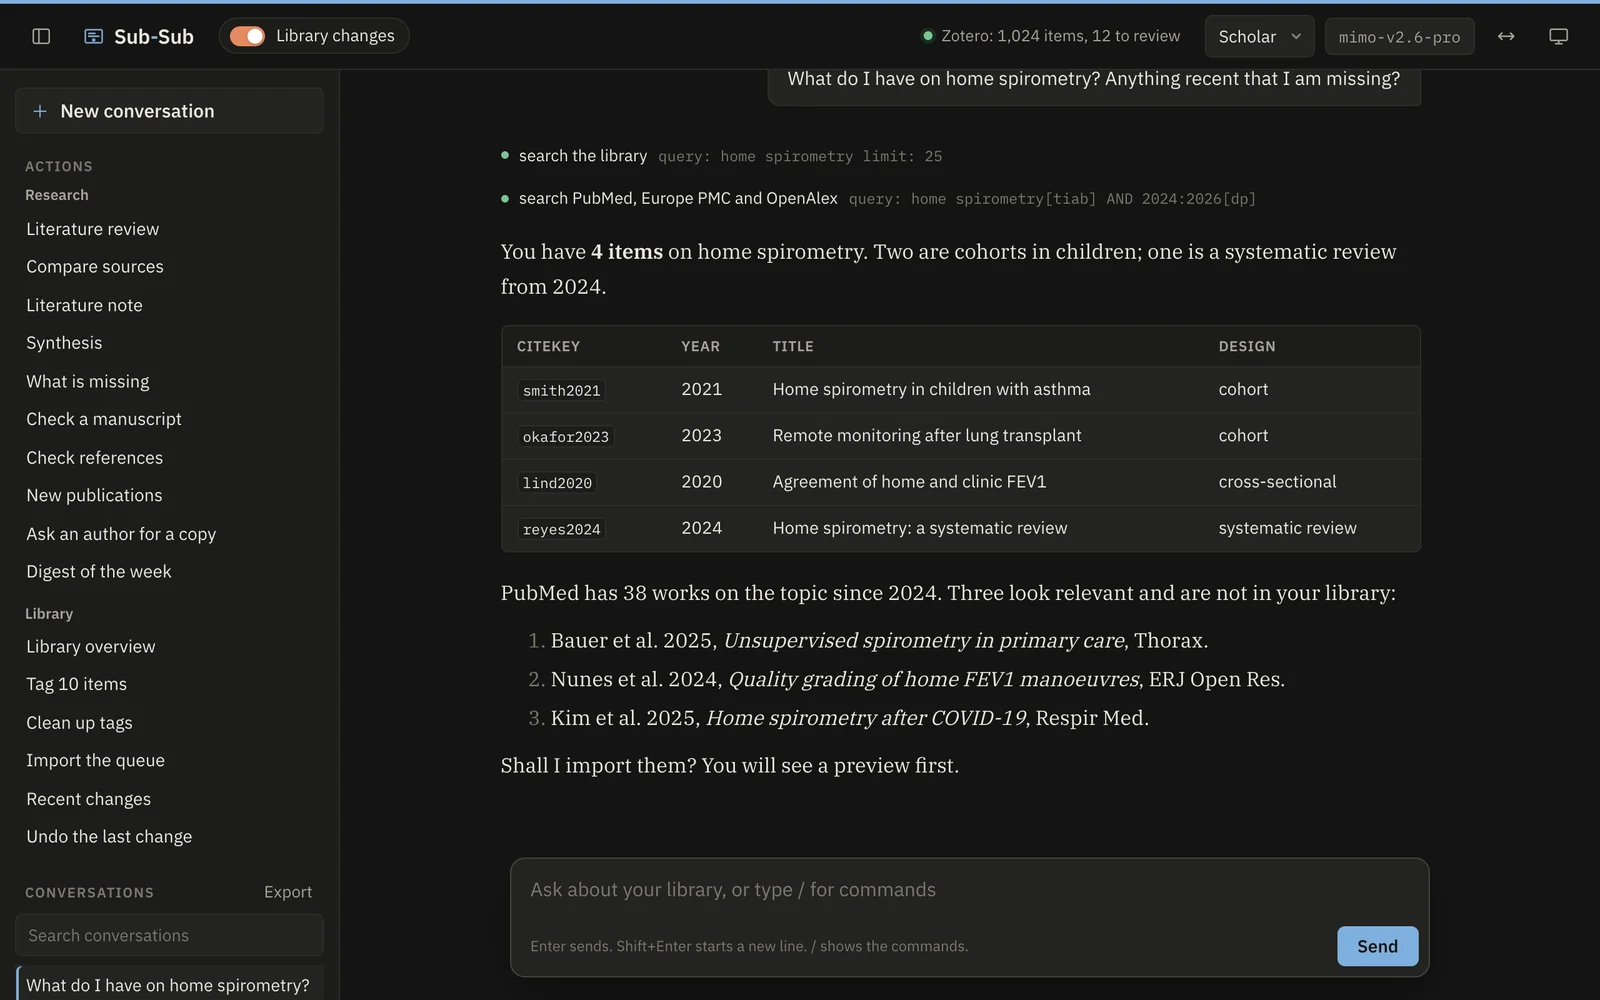
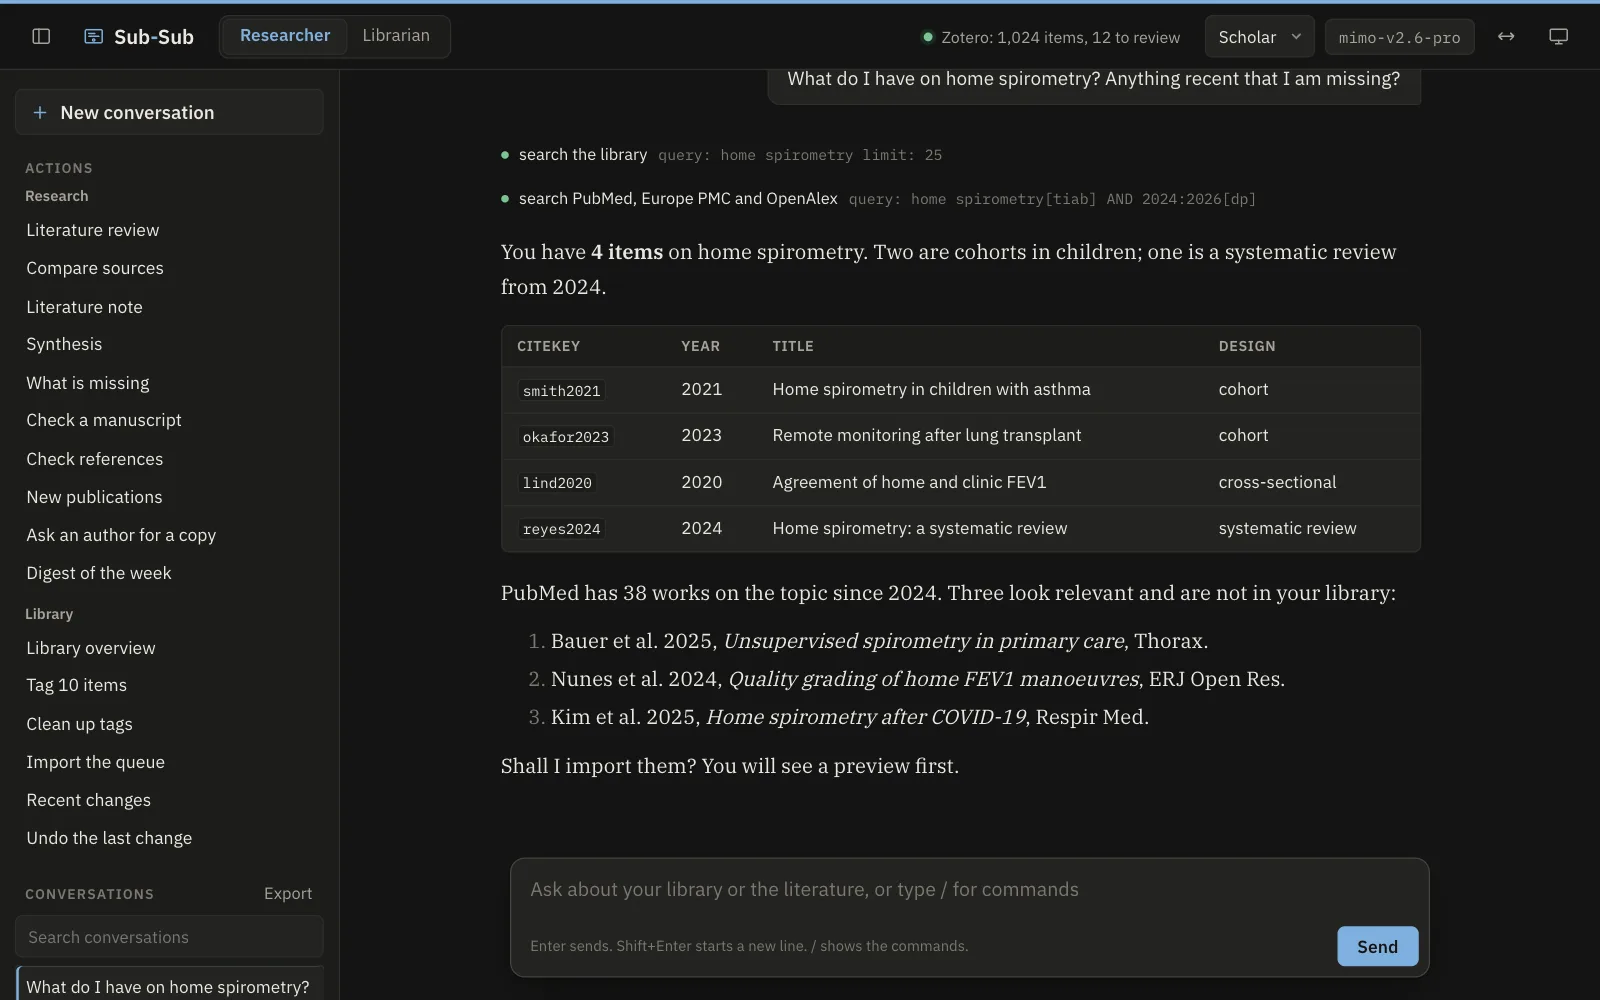
Site: a citation in place of the version kicker; section marks for labels; new web view screenshot

diff --git a/site/src/assets/css/site.css b/site/src/assets/css/site.css
@@ -121,14 +121,15 @@ code, pre, kbd { font-family: var(--mono); }
 }
 .skip:focus { top: 1rem; }
 
+/* Section labels: a section mark and plain words, as in a printed reference. */
 .eyebrow {
-	margin: 0 0 0.75rem;
-	font-size: 0.78rem;
-	font-weight: 600;
-	letter-spacing: 0.08em;
-	text-transform: uppercase;
+	margin: 0 0 0.6rem;
+	font-family: var(--serif);
+	font-size: 1rem;
+	font-weight: 500;
 	color: var(--accent);
 }
+.eyebrow::before { content: "\00a7"; margin-right: 0.45em; color: var(--faint); font-weight: 400; }
 .eyebrow a { color: inherit; text-decoration: none; }
 .eyebrow a:hover { text-decoration: underline; }
 
@@ -233,6 +234,10 @@ code, pre, kbd { font-family: var(--mono); }
 }
 .hero .lead { font-size: clamp(1.05rem, 1.6vw, 1.2rem); color: var(--muted); margin: 0 0 2rem; max-width: 40rem; text-wrap: pretty; }
 .hero-links { display: flex; flex-wrap: wrap; gap: 0.6rem; margin: 1.5rem 0 0; }
+/* The hero's small print is a reference entry, Vancouver style, as the reader would cite it. */
+.cite { margin: 2rem 0 0; padding-left: 1.5rem; text-indent: -1.5rem; max-width: 40rem; font-family: var(--serif); font-size: 0.92rem; line-height: 1.55; color: var(--muted); }
+.cite-label { font-family: var(--sans); font-size: 0.8rem; font-weight: 600; color: var(--faint); margin-right: 0.35em; }
+.cite a { color: inherit; }
 
 .install {
 	border: 1px solid var(--rule-strong);
@@ -390,8 +395,9 @@ code, pre, kbd { font-family: var(--mono); }
 .dg .m { font-family: var(--mono); font-size: 12px; }
 .dg .m.t { font-size: 14px; }
 .dg .c { font-size: 12px; }
-.dg .cap { font-size: 11px; font-weight: 600; letter-spacing: 0.08em; fill: var(--faint); }
-.dg .cap.acc { fill: var(--text); }
+.dg .cap { font-family: var(--serif); font-size: 14px; font-weight: 500; fill: var(--accent); }
+.dg .cap .sect { fill: var(--faint); font-weight: 400; }
+.dg .cap.acc { fill: var(--text); font-weight: 600; }
 .dg .chip { fill: var(--surface); stroke: var(--rule-strong); }
 .dg .pill.lib { fill: var(--librarian-soft); stroke: var(--librarian); }
 .dg .pill.res { fill: var(--accent-soft); stroke: var(--accent); }
